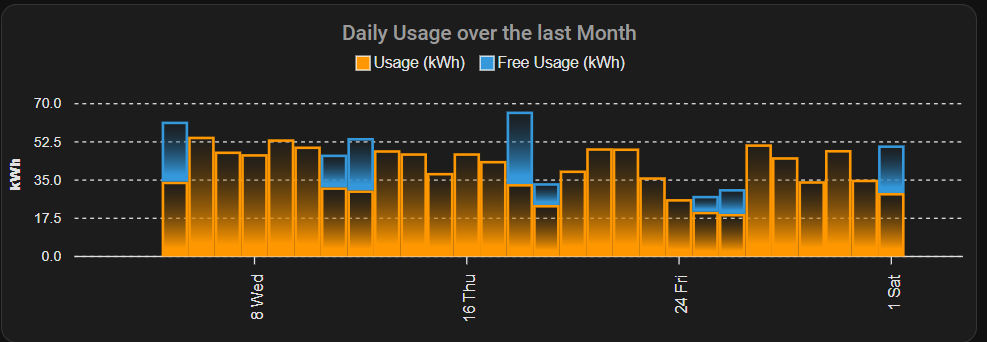
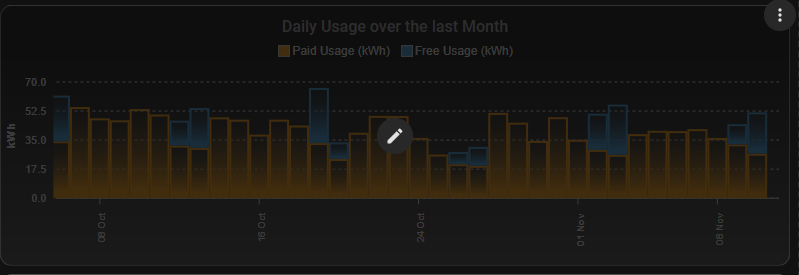
Update README to reflect 60-day data collection and updated daily chart image

diff --git a/README.md b/README.md
@@ -172,12 +172,11 @@ This card shows the hourly usage and hourly free usage. The integration creates 
 
 ## Daily Usage and Daily Free Usage
 
-This card shows the daily usage and free usage over the last 35 days. The integration creates two sensors that store up to 30 days' worth of data. This example displays the last 31 days of data and excludes the most recent two days of missing data.
+This card shows the daily usage and free usage over the last 35 days. The integration creates two sensors that store up to 60 days' worth of data. This example displays the last 35 days of data and excludes the most recent two days of missing data.
 
 This chart is a WIP as I am not fully happy with the layout.
 
 **TO DO:**
-- Remove the empty space between the y-axis and displayed data
 - Add the first letter of each weekday in the correct space as well as the day
 [![Daily Usage Chart](https://raw.githubusercontent.com/iamawumpas/Contact-Energy/main/custom_components/contact_energy/assets/image-1.png)](https://raw.githubusercontent.com/iamawumpas/Contact-Energy/main/custom_components/contact_energy/assets/ApexCharts%20Card%20-%20Daily%20usage%20example.yaml)
 
